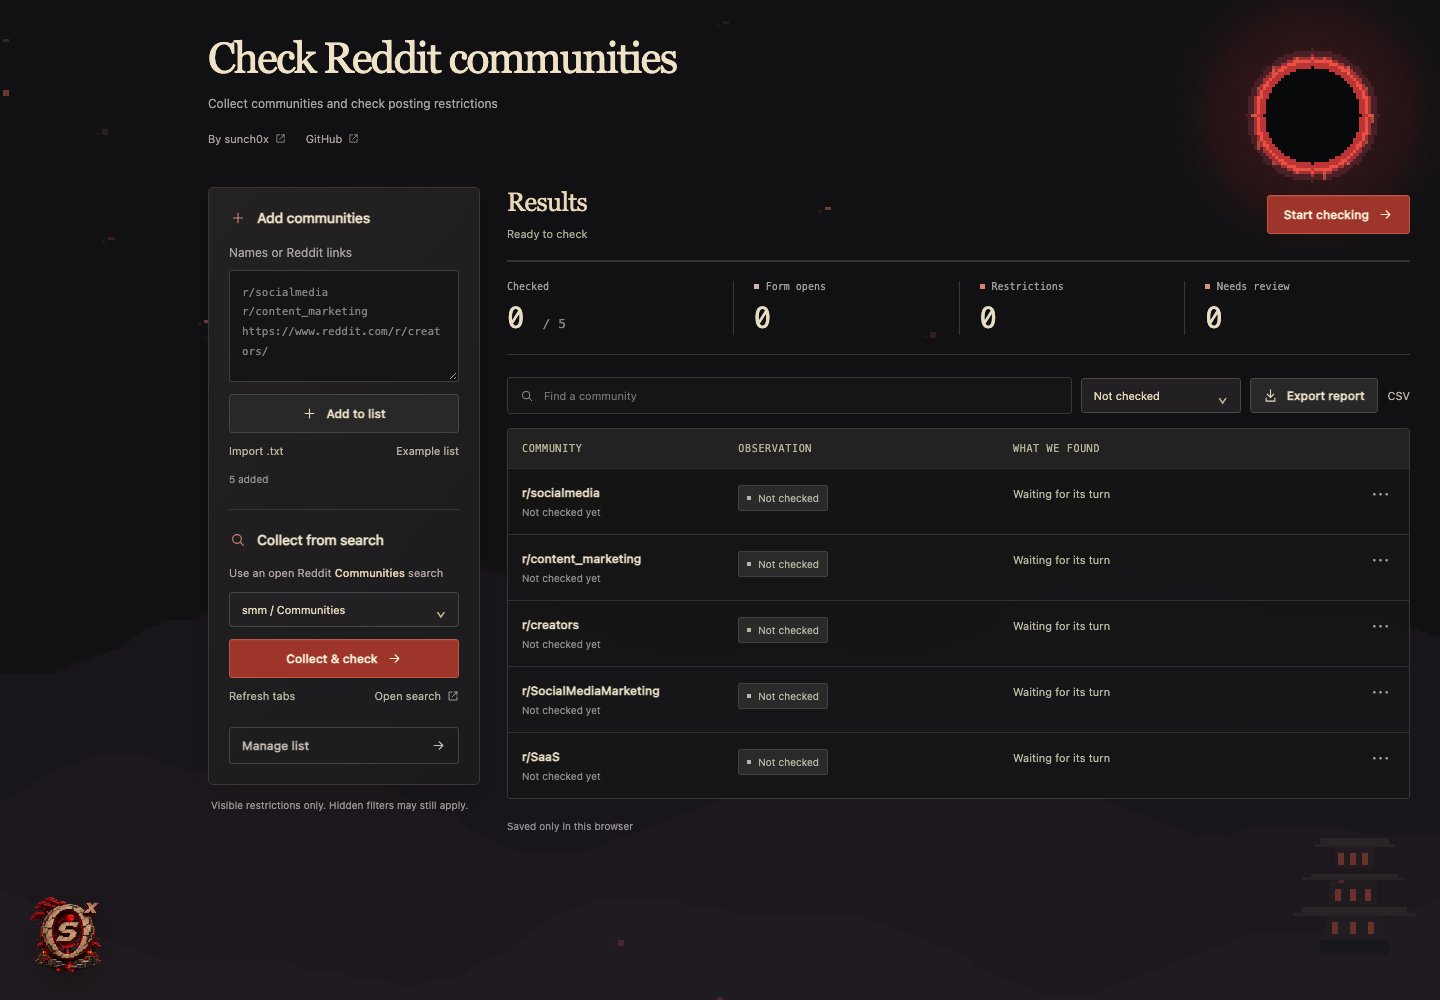
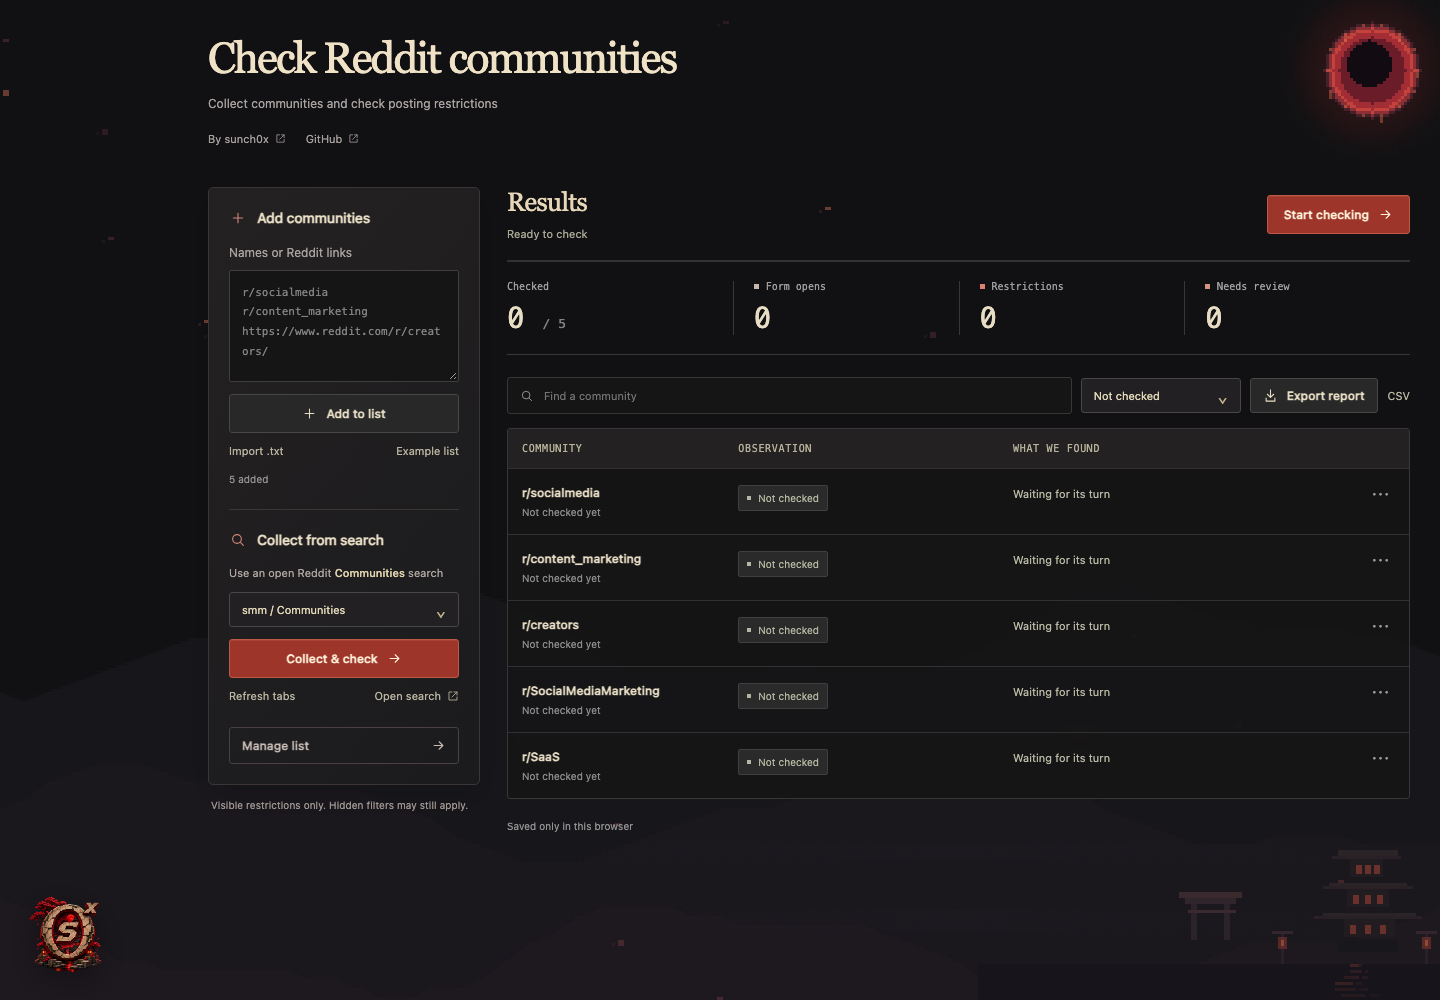
Refine eclipse placement and add restrained shrine valley details

diff --git a/extension/ambient.js b/extension/ambient.js
@@ -21,25 +21,55 @@ export function startAmbient(){
   }
  }
  function eclipse(t){
-  const r=width<250?10:19,x=width*.91,y=Math.max(r+8,Math.min(height*.12,38));
-  const halo=ctx.createRadialGradient(x,y,r*.8,x,y,r*2.7);
-  halo.addColorStop(0,'#a827293d');halo.addColorStop(.5,'#8f202326');halo.addColorStop(1,'#11111300');
+  const r=width<250?8:14,x=width-r-9,y=r+9;
+  const halo=ctx.createRadialGradient(x,y,r*.8,x,y,r*2.3);
+  halo.addColorStop(0,'#ac292b32');halo.addColorStop(.5,'#8f20231c');halo.addColorStop(1,'#11111300');
   ctx.fillStyle=halo;ctx.fillRect(x-r*3,y-r*3,r*6,r*6);
-  disc(x,y,r+3,'#482026');disc(x,y,r+1,'#a43135');disc(x,y,r,'#eb5140');disc(x,y,r-1,'#bc3435');disc(x,y,r-3,'#08090b');
+  disc(x,y,r+2,'#442028');disc(x,y,r+1,'#8b2e35');disc(x,y,r,'#c3433c');disc(x,y,r-1,'#a32d34');disc(x,y,r-3,'#6a1d29');disc(x-1,y-2,r*.53,'#130b12');
   // Quiet uneven corona, with only a slight breathing change in intensity.
-  ctx.globalAlpha=.5+Math.sin(t*.55)*.08;
+  ctx.globalAlpha=.35+Math.sin(t*.55)*.05;
   for(let i=0;i<14;i++){
    const a=i*Math.PI*2/14,rr=r+1;
    rect(x+Math.cos(a)*rr,y+Math.sin(a)*rr,1,i%3===0?3:1,'#f4774d');
   }
   ctx.globalAlpha=1;
  }
+ function lantern(x,y,t,phase){
+  rect(x,y-10,1,11,'#292029');rect(x-3,y-10,7,1,'#35252c');
+  ctx.globalAlpha=.55+Math.sin(t*.45+phase)*.06;
+  rect(x-1,y-8,3,4,'#81342e');rect(x,y-7,1,2,'#b15b40');ctx.globalAlpha=1;
+ }
+ function gate(x,y){
+  rect(x-8,y-14,17,2,'#30252b');rect(x-10,y-16,21,2,'#3a292d');
+  rect(x-6,y-12,2,12,'#2c232a');rect(x+5,y-12,2,12,'#2c232a');rect(x-7,y-10,16,1,'#3b292e');
+ }
+ function valley(t){
+  // Sparse midground details stay to the right, outside the emblem's clear rail.
+  ctx.globalAlpha=.45;pagoda(width*.75,height*.77,11);ctx.globalAlpha=1;
+  gate(width*.84,height*.94);pagoda(width*.95,height*.94,22);
+  lantern(width*.89,height*.96,t,0);lantern(width*.99,height*.96,t,2);
+  // Dark water and short broken reflections, rather than a bright decorative stripe.
+  const waterY=Math.round(height*.965);rect(width*.68,waterY,width*.32,height-waterY,'#17151b');
+  for(let i=0;i<8;i++){
+   const y=waterY+i*2,x=width*.94+Math.sin(t*.18+i*1.4)*2,span=2+i*.85;
+   ctx.globalAlpha=.48-i*.035;rect(x-span,y,span*1.3,1,i%3?'#4b272b':'#6c322d');rect(x+span*.6,y,span*.5,1,'#382229');
+  }
+  ctx.globalAlpha=1;
+ }
+ function fog(t){
+  for(let layer=0;layer<3;layer++){
+   const y=height*(.78+layer*.065),drift=Math.sin(t*.035+layer)*width*.025;
+   const gradient=ctx.createLinearGradient(width*.3+drift,y,width,y);
+   gradient.addColorStop(0,'#29232c00');gradient.addColorStop(.5,'#34303b0d');gradient.addColorStop(1,'#29232c00');
+   ctx.fillStyle=gradient;ctx.fillRect(width*.3+drift,y,width*.7,3+layer*2);
+  }
+ }
  function draw(now){
   const t=motion.matches?0:(now-origin)/1000;
   rect(0,0,width,height,'#111113');
   eclipse(t);
-  ridge(height*.62,1.3,'#18161b');ridge(height*.8,3.1,'#1c181d');ridge(height*.94,5.1,'#201b20');
-  pagoda(width*.94,height*.94,25);
+  ridge(height*.64,1.3,'#17161a');ridge(height*.81,3.1,'#1a171d');ridge(height*.95,5.1,'#1d191f');
+  valley(t);fog(t);
   for(let i=0;i<particles.length;i++){
    const p=particles[i],x=(p.x*width+t*p.speed*2)%(width+12)-6,y=p.y*height+Math.sin(t*.23+p.phase)*10;
    if(x<65&&y>height*.63)continue;
